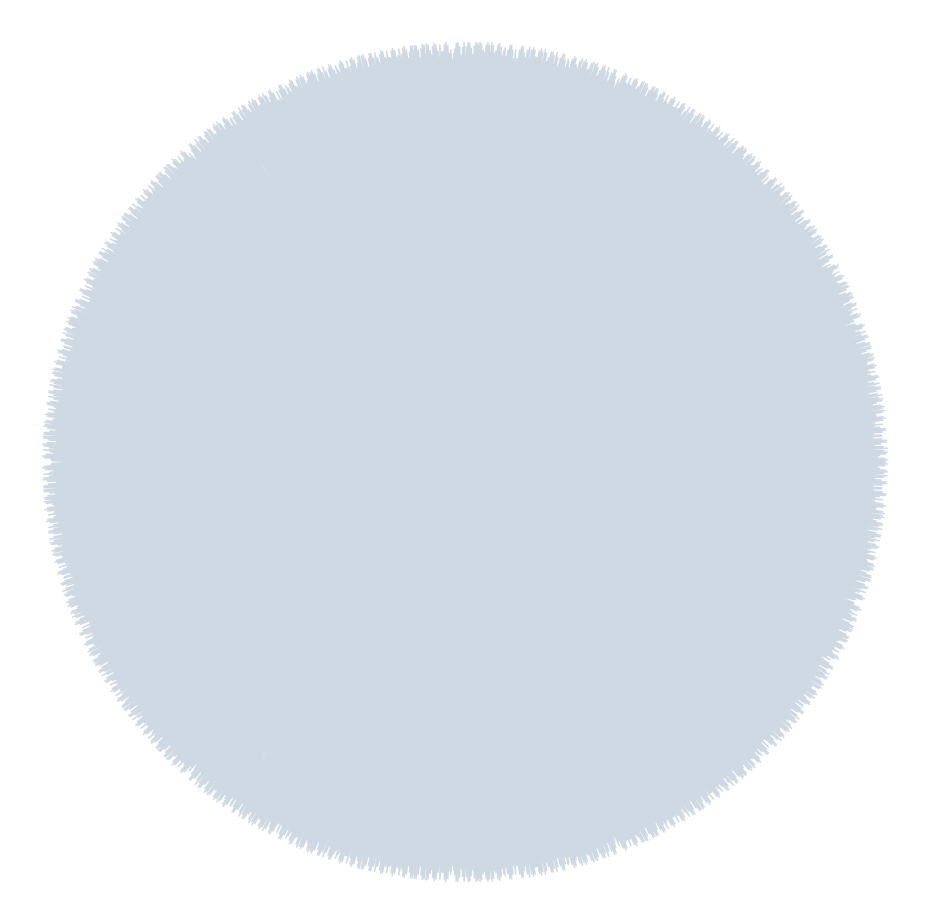
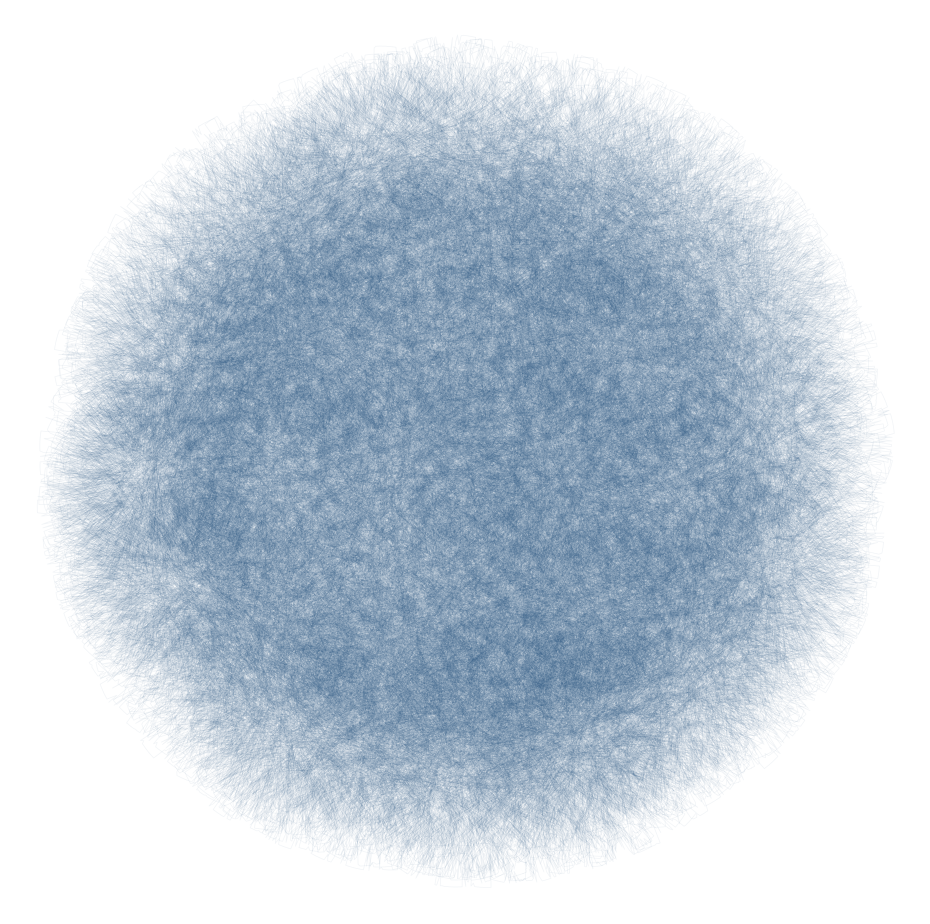
add bg images

diff --git a/style.css b/style.css
@@ -22,28 +22,42 @@ body {
   word-spacing: 0.05em;
 }
 
-.background-globe {
-  position: absolute; /* Pins the globe to the top of the webpage so it scrolls away */
-  top: -250px; /* Pulls the center of the globe upwards */
-  left: 5%; /* Keeps it aligned toward the left, behind your profile */
+/* --- Animated Background Container --- */
+.animated-bg-container {
+  position: absolute; /* Anchors it to the top so it scrolls away */
+  top: -250px;        /* Pulls the center of the globe upwards */
+  left: 5%;           /* Aligns it behind the profile photo */
   width: 1400px; 
   height: 1400px;
-  border-radius: 50%;
-  
-  /* 
-    The fix: Fading to 'transparent 50%' ensures the color disappears 
-    completely BEFORE it hits the physical edge of the 1400px box. 
-  */
-  background: radial-gradient(
-    circle, 
-    rgba(0, 51, 102, 0.40) 0%,     /* Dark, prominent blue core */
-    rgba(0, 51, 102, 0.15) 20%,    /* Smooth transition */
-    rgba(0, 51, 102, 0.04) 35%,    /* Soft, faint outer edge */
-    transparent 50%                /* Absolute invisible stop, preventing cut-offs */
-  );
-  
-  z-index: 0;
-  pointer-events: none;
+  z-index: 0;         /* Keeps it behind the main content */
+  pointer-events: none; /* Allows clicks to pass through to links/text */
+  overflow: hidden;
+  border-radius: 50%; 
+}
+
+/* Base styling for the crossfading images */
+.animated-bg-container img {
+  position: absolute;
+  top: 0;
+  left: 0;
+  width: 100%;
+  height: 100%;
+  object-fit: cover;
+  transition: opacity 4s ease-in-out; /* Handles the smooth crossfade */
+}
+
+#bg-layer-top {
+  z-index: 2;
+  opacity: 1; 
+}
+
+#bg-layer-bottom {
+  z-index: 1;
+}
+
+/* Class toggled by JavaScript to trigger the fade */
+.fade-out {
+  opacity: 0 !important; 
 }
 
 canvas {
@@ -67,12 +81,11 @@ div.body_text, div.body_text_2, div.body_text_3 {
   position: absolute;
   z-index: 10;
   background-color: rgba(255, 255, 255, 0.6); 
-  padding-right: 2.5%;
-  padding-left: 2.5%;
-  padding-top: 1.5%;
-  padding-bottom: 1.5%;
+  padding: 1.5% 2.5%;
   border-radius: 8px;
+  box-sizing: border-box;
 }
+
 /* Column positioning */
 div.body_text_2 { left: 4%; width: 27%; top: 1%; } 
 div.body_text   { left: 35%; width: 28%; top: 1%; } 
@@ -126,20 +139,18 @@ hr {
   margin: 1.5em 0;
 }
 
-
+/* --- Media Elements --- */
 .mephoto {
   width: 100%;
   max-width: 280px;
   display: block;
   margin-bottom: 15px;
   border-radius: 6px; 
-  /* Lift effect using soft shadow instead of borders */
   box-shadow: 0 15px 35px rgba(0, 51, 102, 0.12); 
   transition: all 0.4s cubic-bezier(0.175, 0.885, 0.32, 1.275); 
 }
 
 .mephoto:hover {
-  /* Dynamic bounce and scale on interaction */
   transform: translateY(-8px) scale(1.02); 
   box-shadow: 0 20px 40px rgba(0, 51, 102, 0.2);
 }
@@ -163,7 +174,7 @@ hr {
   transform: scale(1.2) rotate(5deg); 
 }
 
-/* --- Collapsible and Hidden Content --- */
+/* --- Collapsible Sections --- */
 fieldset { border: 0 none; margin-top: 10px; padding: 0; }
 
 .majorpointslegend {
@@ -195,7 +206,7 @@ div.hiders {
 div.hiders ul { padding-left: 20px; }
 div.hiders li { margin-bottom: 12px; }
 
-/* Highlight section links */
+/* Section Link Highlighting */
 div.hiders h3, div.hiders h3 a {
   color: var(--primary-blue);
   font-weight: 600;
@@ -206,7 +217,6 @@ div.hiders p a {
   font-weight: 500;
 }
 
-/* Hover states for section links */
 div.hiders h3 a:hover,
 div.hiders p a:hover {
   color: #1a6fd4;
@@ -250,5 +260,23 @@ div.hiders p a:hover {
     background-color: rgba(255, 255, 255, 0.95);
   }
   .container { height: auto; padding-bottom: 50px; }
-  .background-globe { display: none; } 
+  .animated-bg-container { display: none; } 
+}
+
+/* --- Legacy Content (Hidden by Media Hack) --- */
+@media (max-width: 0px) {
+  /* 
+     This contains the old radial-gradient logic.
+     It is effectively disabled but kept for reference.
+  */
+  .background-globe {
+    position: absolute;
+    top: -250px;
+    left: 5%;
+    width: 1400px;
+    height: 1400px;
+    background: radial-gradient(circle, rgba(0, 51, 102, 0.40) 0%, transparent 50%);
+    z-index: 0;
+    pointer-events: none;
+  }
 }

diff --git a/js/background.js b/js/background.js
@@ -1,0 +1,41 @@
+document.addEventListener("DOMContentLoaded", function() {
+    
+    // Array of the images you generated
+    const bgImages = [
+        'media/bg_spirograph/random_30.png',
+        'media/bg_spirograph/random_31.png',
+        'media/bg_spirograph/random_32.png',
+        'media/bg_spirograph/random_33.png',
+        'media/bg_spirograph/random_34.png',
+        'media/bg_spirograph/random_35.png',
+        'media/bg_spirograph/random_36.png',
+        'media/bg_spirograph/random_37.png',
+        'media/bg_spirograph/random_38.png',
+        'media/bg_spirograph/random_39.png'
+    ];
+
+    const topLayer = document.getElementById('bg-layer-top');
+    const bottomLayer = document.getElementById('bg-layer-bottom');
+    
+    let currentIndex = 0;
+    const holdDuration = 6000; 
+    const fadeDuration = 4000; 
+
+    function cycleBackground() {
+        let nextIndex = (currentIndex + 1) % bgImages.length;
+        topLayer.classList.add('fade-out');
+
+        setTimeout(function() {
+            topLayer.src = bgImages[nextIndex];
+            topLayer.classList.remove('fade-out');
+            
+            let upcomingIndex = (nextIndex + 1) % bgImages.length;
+            bottomLayer.src = bgImages[upcomingIndex];
+            
+            currentIndex = nextIndex;
+
+        }, fadeDuration);
+    }
+
+    setInterval(cycleBackground, holdDuration);
+});

diff --git a/index.html b/index.html
@@ -14,6 +14,13 @@
 
   <canvas id="canvas"></canvas>
 
+  <div class="animated-bg-container">
+    <!-- Top image that will fade in and out -->
+    <img id="bg-layer-top" src="media/bg_spirograph/random_0.png" alt="Background Animation" />
+    <!-- Bottom image that sits underneath -->
+    <img id="bg-layer-bottom" src="media/bg_spirograph/random_1.png" alt="" />
+  </div>
+
   <div class="container">
     
     <div class="body_text_2">
@@ -355,5 +362,9 @@
     window.addEventListener('mousemove', e => { mouseX = e.clientX; mouseY = e.clientY; });
     resizeCanvas(); initParticles(); animate();
   </script>
+
+<!-- Link to your external JavaScript file -->
+<script src="js/background.js"></script>
+
 </body>
 </html>

diff --git a/bg_generator.py b/bg_generator.py
@@ -7,40 +7,48 @@ os.makedirs(output_dir, exist_ok=True)
 
 print(f"Generating frames in: {output_dir}...")
 
-# Loop to create 10 frames
-for i in range(30,40,1):
-    # 100 * pi gives us 50 full rotations to build a dense, complex mesh
-    t = np.linspace(0, 100 * np.pi, 10000) 
-    
-    # 'k' controls the number of "rays" or "petals". 
-    # Using a fraction (33.33) forces the lines to overlap and fill a circle.
-    # Adding (i * 0.03) slightly shifts the math each frame for the animation.
-    k = 33.33 + (i * 0.03) 
-    
-    # Polar math (Rose Curve): Guarantees a perfectly circular boundary
-    r = np.sin(k * t)
-    
-    # Convert back to X and Y for plotting
-    x = r * np.cos(t)
-    y = r * np.sin(t)
-    
-    plt.figure(figsize=(8,8))
-    
-    # Plot the sun/globe. 
-    # Alpha is low (0.2) because so many lines cross in the center, making a naturally dark core
-    plt.plot(x, y, color="#0E4277", alpha=0.2, linewidth=0.7)
-    
-    plt.axis('off') # Hide axes
-    
-    # CRITICAL: Force the limits of the graph so the globe doesn't "jump" or change size between frames
+
+def make_scribble_circle(seed: int, line_count=120, points_per_line=360):
+    rng = np.random.default_rng(seed)
+    angles = np.linspace(0, 2 * np.pi, points_per_line)
+
+    x_lines = []
+    y_lines = []
+
+    for _ in range(line_count):
+        base_radius = np.sqrt(rng.random()) * 0.80
+        base_angle = rng.random() * 2 * np.pi
+        center_x = base_radius * np.cos(base_angle)
+        center_y = base_radius * np.sin(base_angle)
+
+        jitter = rng.normal(scale=0.04, size=points_per_line)
+        wobble = 0.12 + 0.08 * np.sin(12 * angles + rng.random() * 3.0)
+        radius = np.clip(0.08 + wobble + jitter, 0, 0.22)
+
+        offset = rng.random() * 2 * np.pi
+        x_line = center_x + radius * np.cos(angles + offset)
+        y_line = center_y + radius * np.sin(angles + offset)
+
+        x_lines.append(x_line)
+        y_lines.append(y_line)
+
+    return x_lines, y_lines
+
+
+for i in range(30, 40):
+    x_lines, y_lines = make_scribble_circle(i, line_count=2000, points_per_line=320)
+
+    plt.figure(figsize=(8, 8))
+    for x_line, y_line in zip(x_lines, y_lines):
+        plt.plot(x_line, y_line, color="#144473", alpha=0.06, linewidth=0.35)
+    plt.axis('off')
     plt.xlim(-1.1, 1.1)
     plt.ylim(-1.1, 1.1)
-    
+
     filepath = os.path.join(output_dir, f'random_{i}.png')
-    
     plt.savefig(filepath, transparent=True, dpi=150, bbox_inches='tight', pad_inches=0)
     plt.close()
-    
-    print(f"Saved frame {i+1}/10: {filepath}")
+
+    print(f"Saved frame {i-29}/10: {filepath}")
 
 print("Done! Check the media/bg_spirograph folder.")
